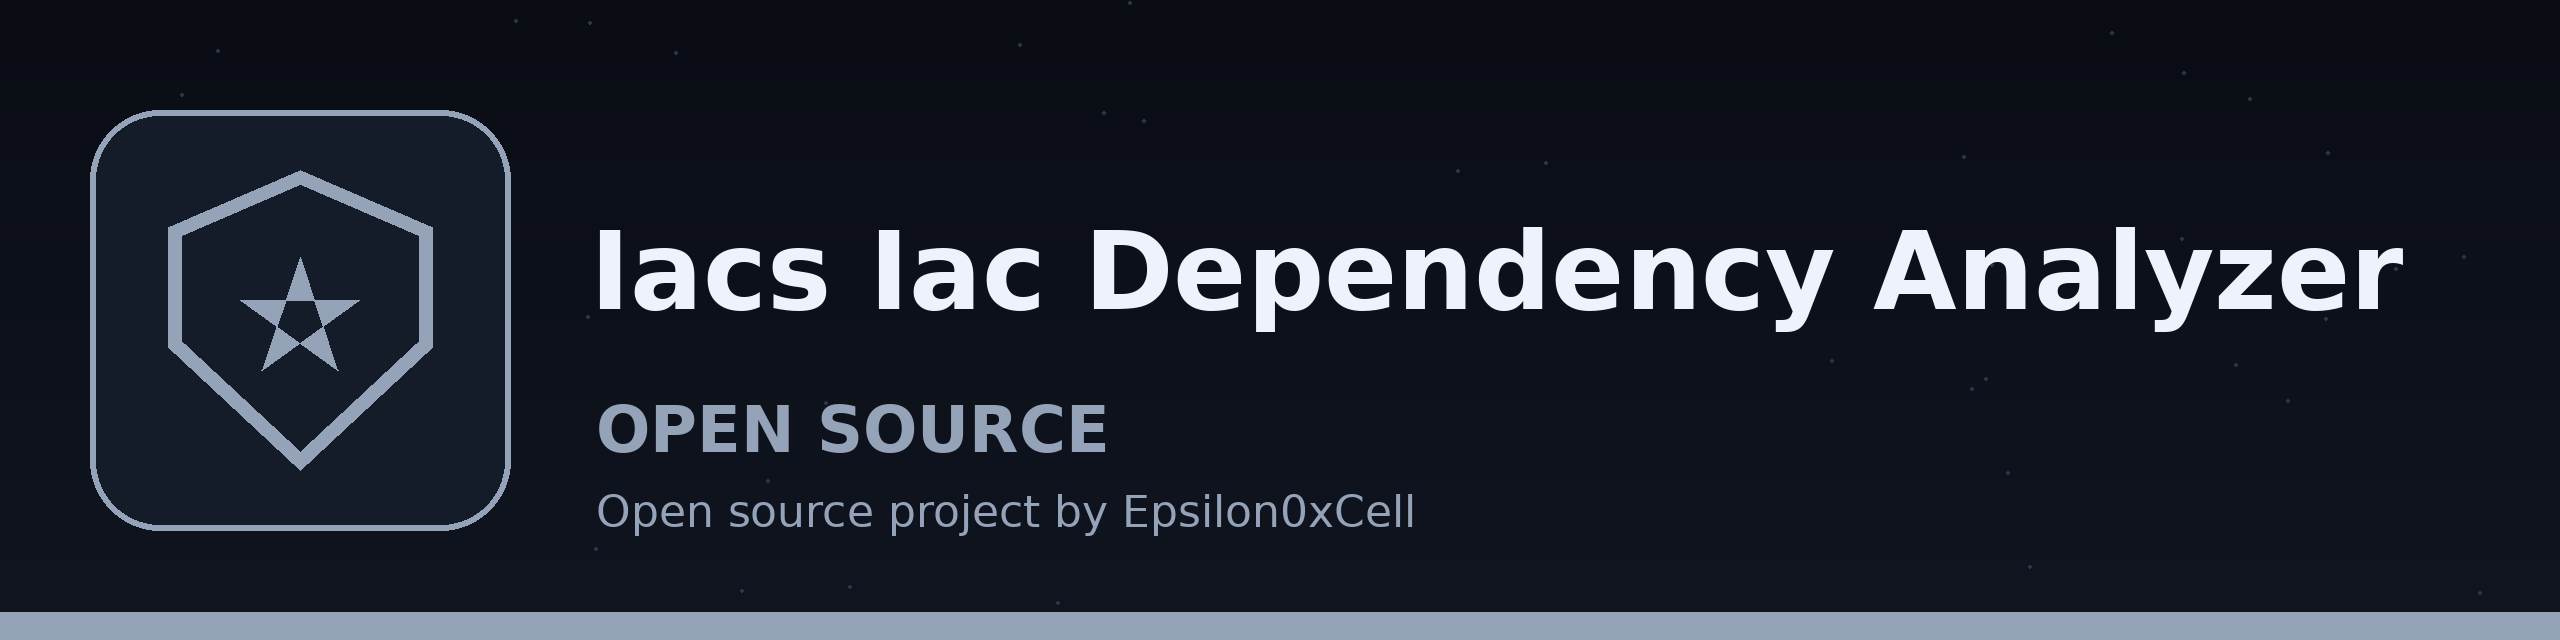
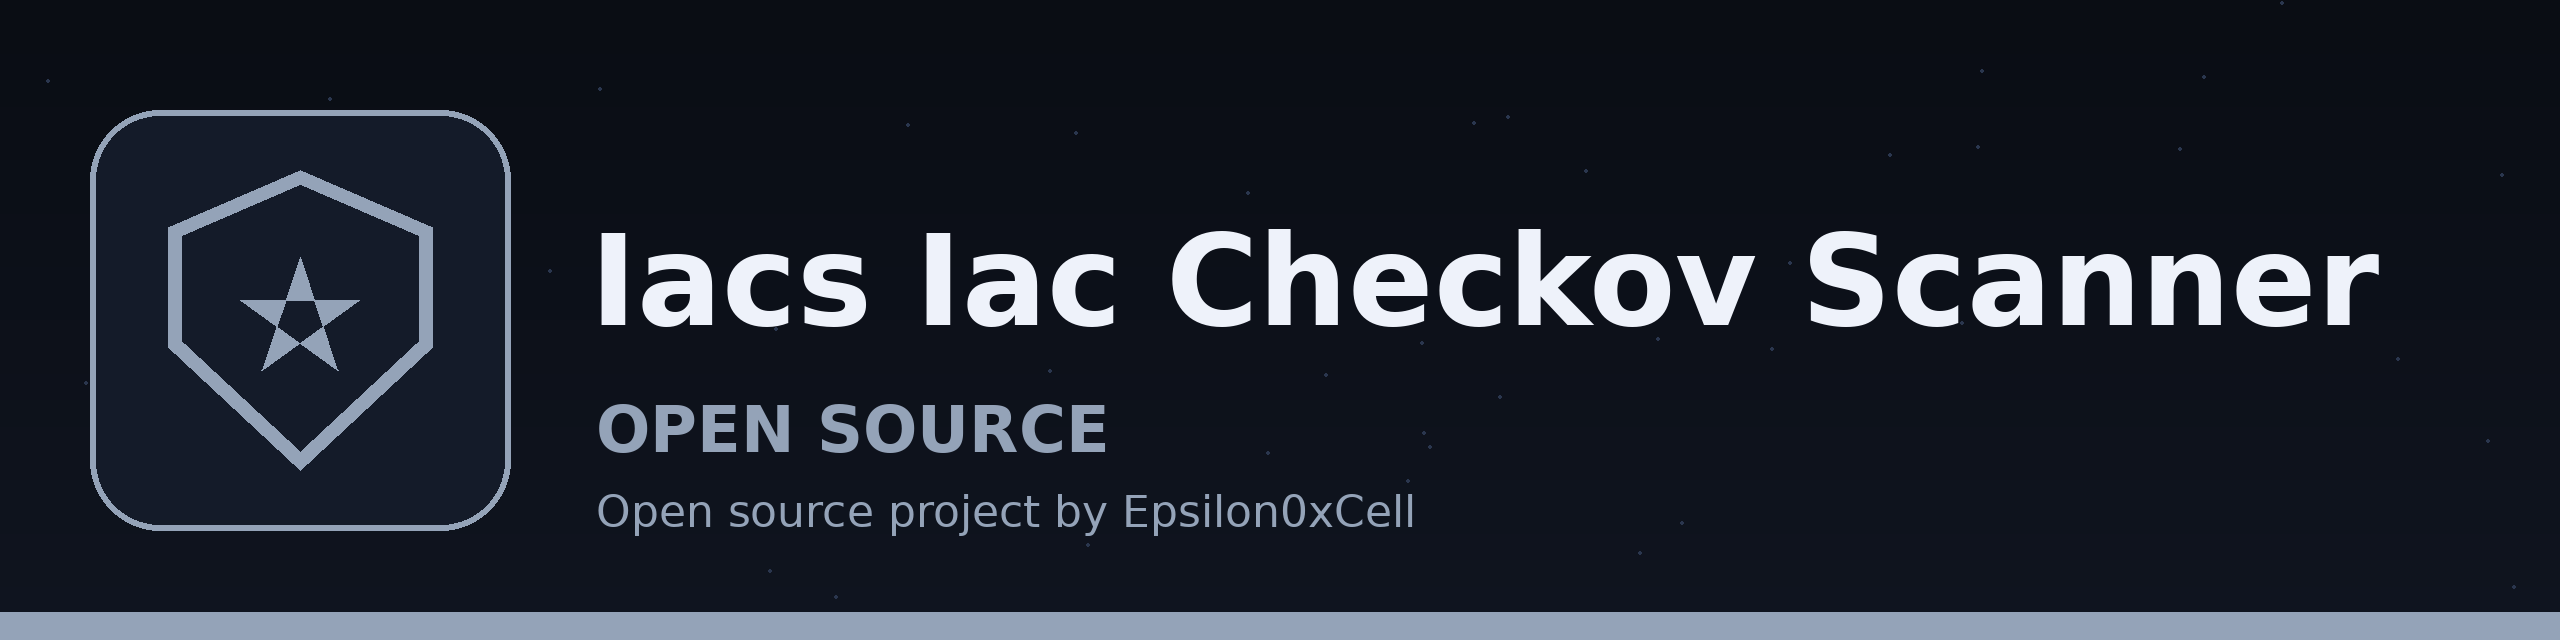
Update branding and README title for rename to iacs-iac-checkov-scanner

Changed region(s): [[0.2188, 0.3438, 0.9375, 0.5312]]

diff --git a/README.md b/README.md
@@ -1,13 +1,13 @@
 ![Banner](banner.png)
 
-# iacs-IaC-Dependency-Analyzer
+# iacs-iac-checkov-scanner
 Analyzes IaC code for external dependencies (e.g., modules from public registries) and identifies potential vulnerabilities or policy violations within those dependencies, including license compatibility checks. - Focused on Analyzes Infrastructure-as-Code (IaC) templates (e.g., Terraform, CloudFormation, Kubernetes manifests) for security misconfigurations before deployment.  Identifies potential vulnerabilities, compliance violations, and other security risks. Uses `checkov` for the core scanning engine and `click` for CLI interface.
 
 ## Install
-`git clone https://github.com/ShadowStrikeHQ/iacs-iac-dependency-analyzer`
+`git clone https://github.com/ShadowStrikeHQ/iacs-iac-checkov-scanner`
 
 ## Usage
-`./iacs-iac-dependency-analyzer [params]`
+`./iacs-iac-checkov-scanner [params]`
 
 ## Parameters
 - `-h`: Show help message and exit
